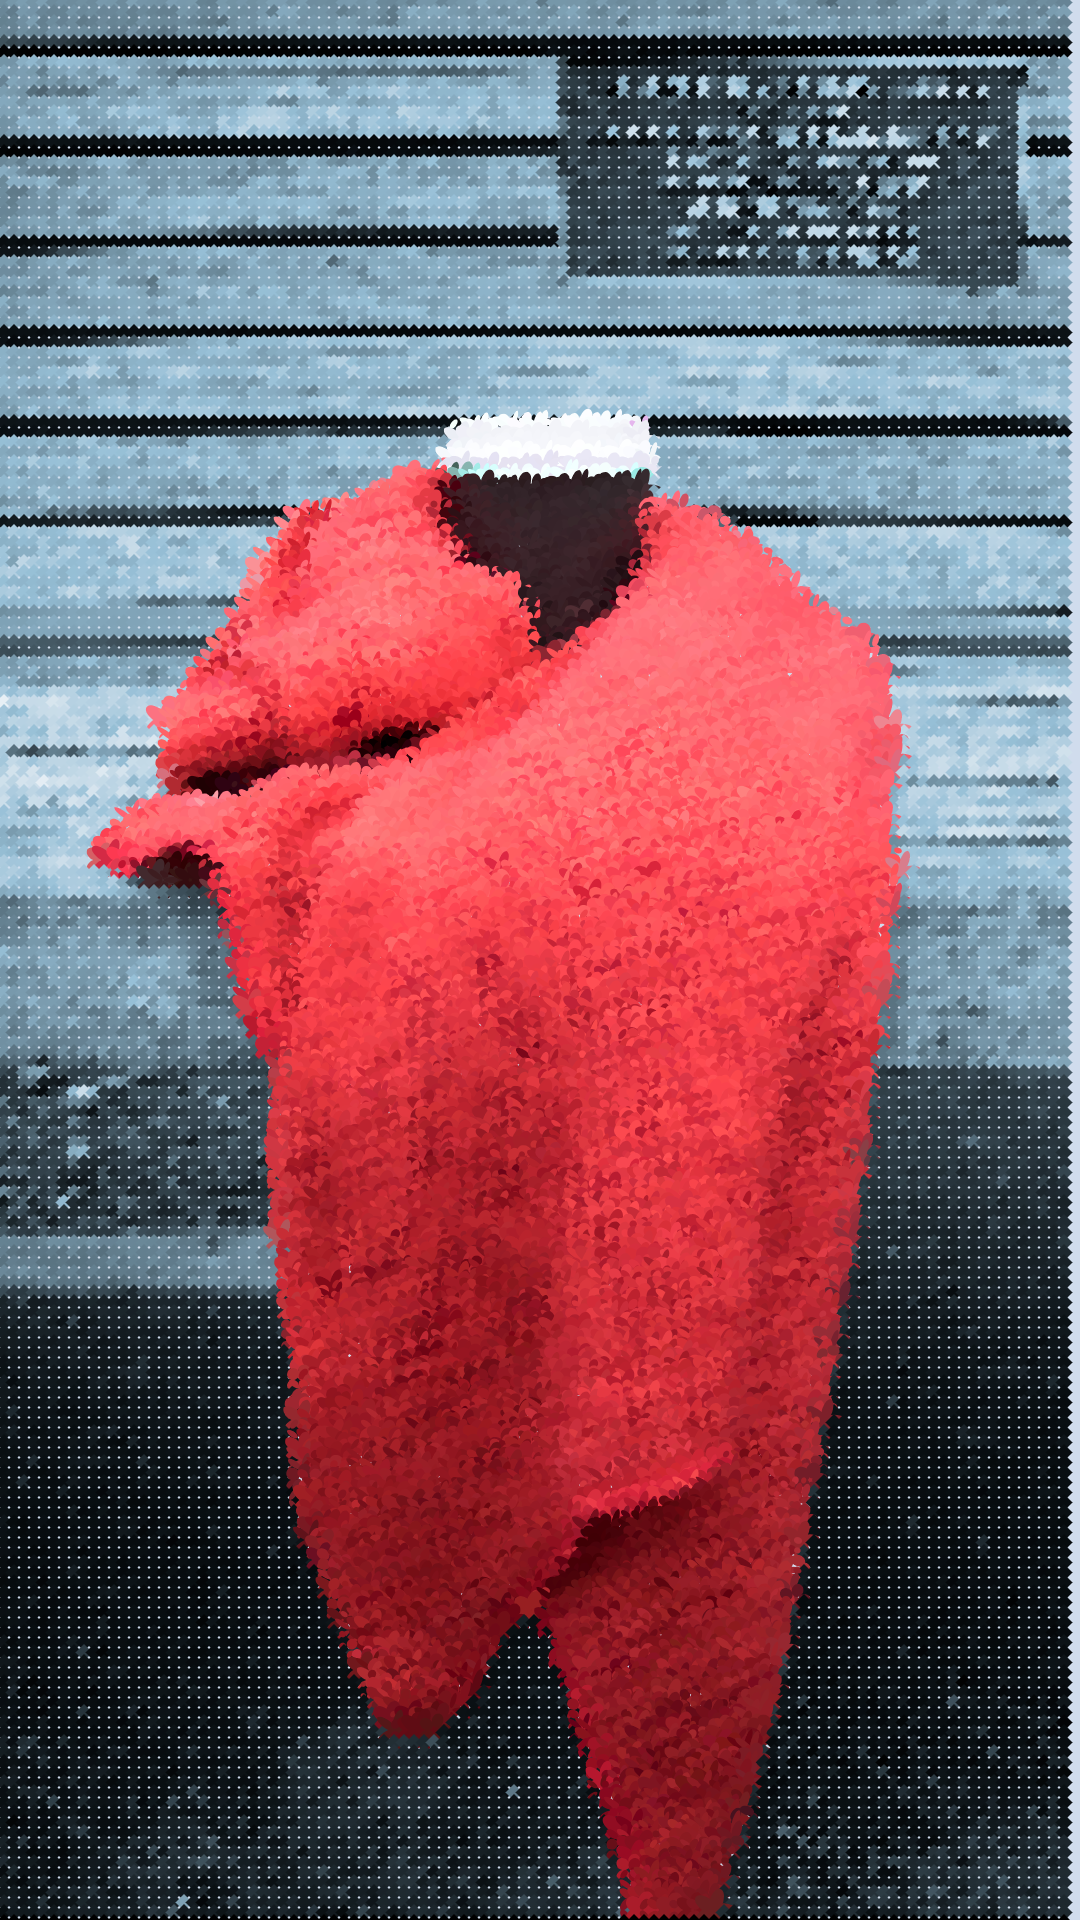
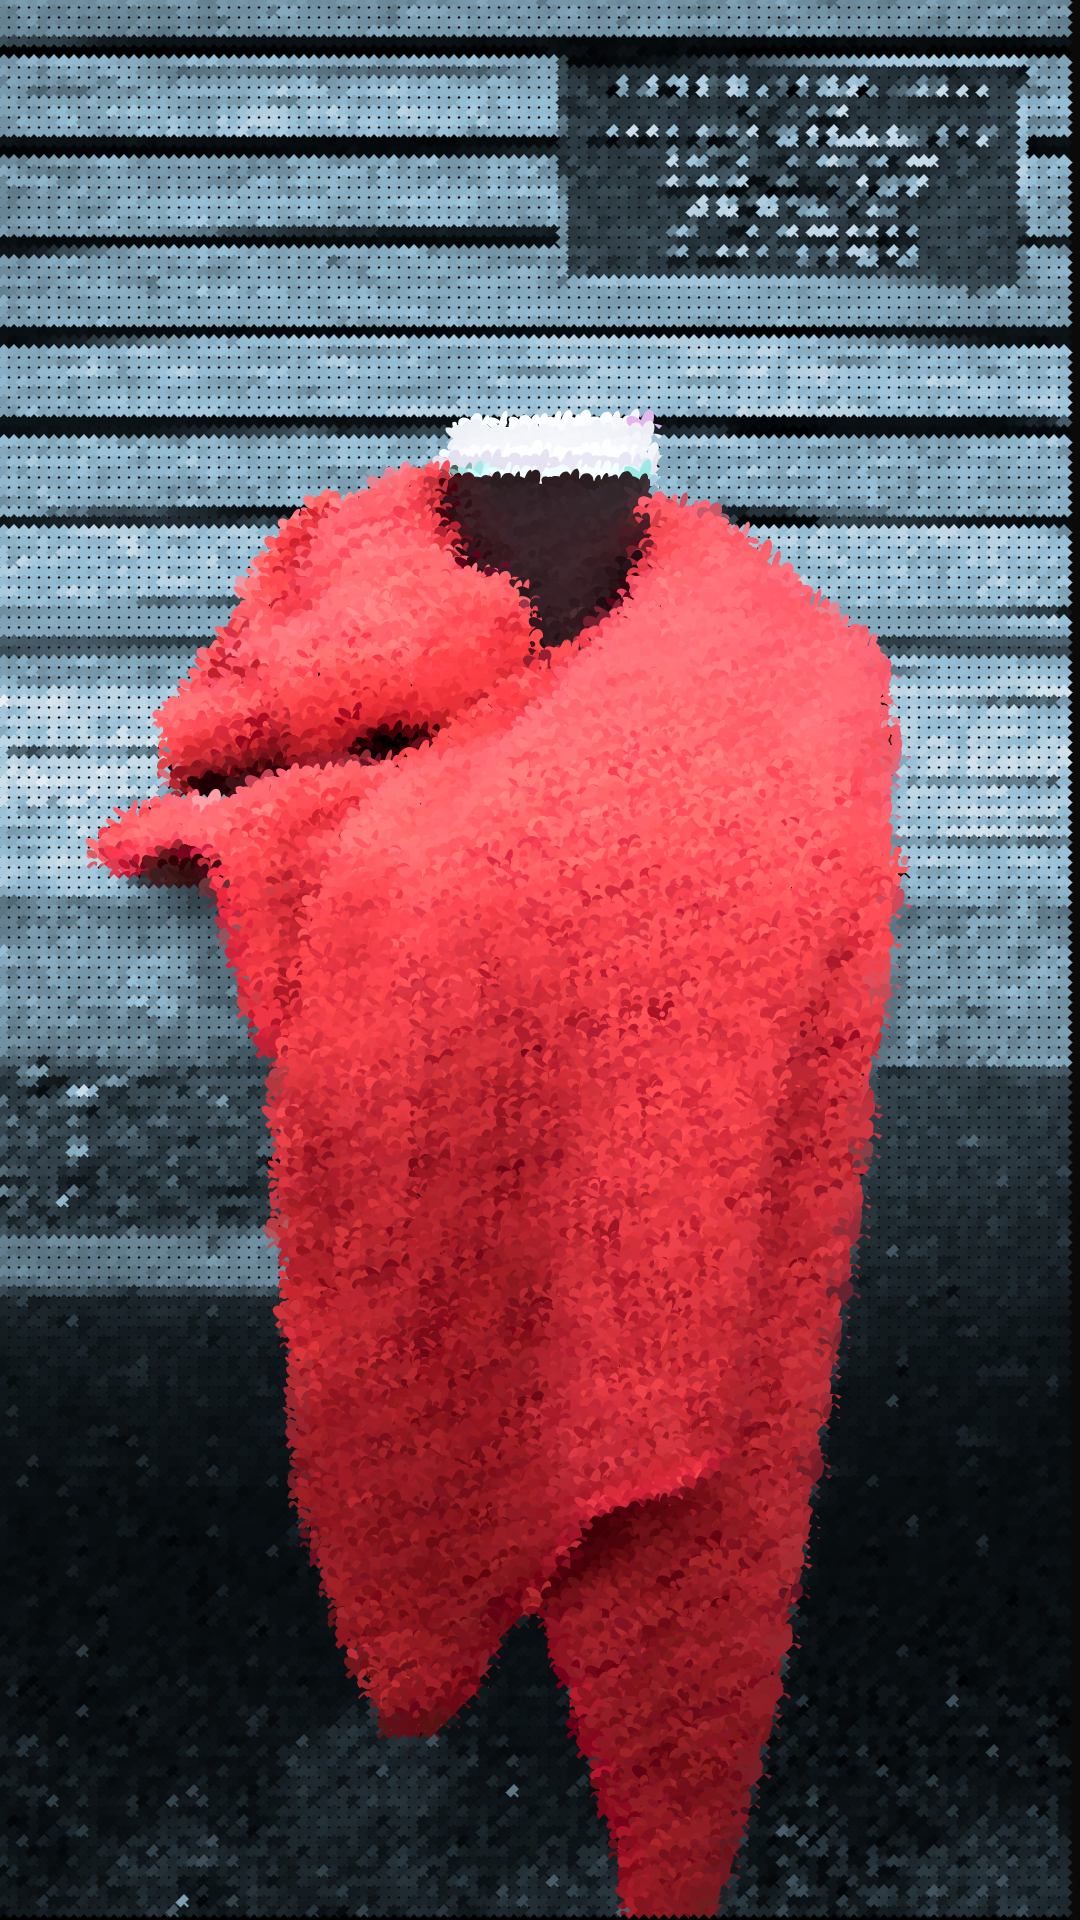
Test the black background and upload the result.

diff --git a/sketch.js b/sketch.js
@@ -46,7 +46,8 @@ function setup () {
   imageMode(CENTER);
   angleMode(DEGREES);
   noStroke();
-  background(208, 220, 237);
+  // background(208, 220, 237);
+  background(10);
   sourceImg.loadPixels();
   maskImg.loadPixels();
 }
@@ -84,7 +85,7 @@ function draw () {
     // fill(pix);
     if(mask[0] > 128) {
       push();
-      translate(x + sOffset - 20, y);
+      translate(x + sOffset - 10, y);
       fill(pix);
       // rotate(30);
       for(let j=0;j<5;j++){

diff --git a/README.md b/README.md
@@ -1,3 +1,3 @@
 ## Creative Coding 2: Custom Pixel
 
-Now I changed the background colour to the light blue. I want to give the whole render a more blue shader so I choose this colour. But the pixels in dark areas are not so solid now. I may try black later.
+For this time I use the black background as an another test. The black background gives the pixels in the dark areas more solid looking, so I may keep this as the final colour of background.
